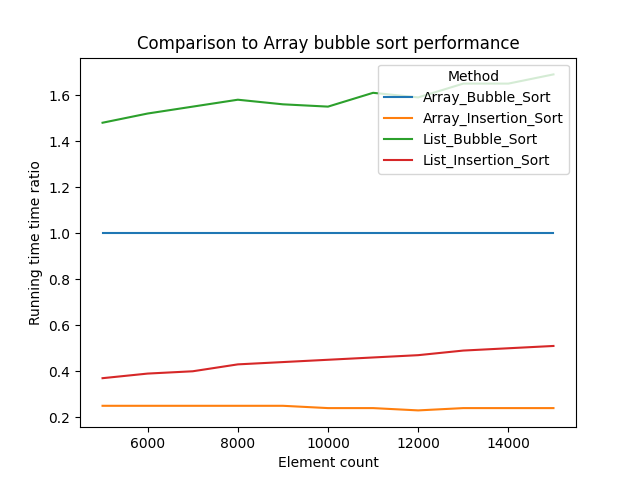
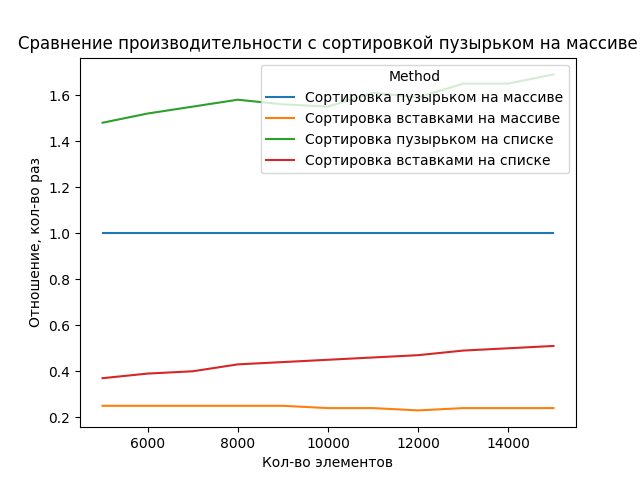
Russified graph images.

diff --git a/src/PythonPlotting/BigData.py b/src/PythonPlotting/BigData.py
@@ -7,36 +7,62 @@ df_raw = pd.read_csv(filepath, sep = ';', thousands = ',')
 
 df = df_raw[['Method', 'Element_Count', 'Mean [ms]', 'Ratio']]
 
+russify = {
+    'Array_Merge_Sort' : 'Сорторовка слиянием на массиве',
+    'Array_Quick_Sort' : 'Быстрая сортировка на массиве',
+    'Array_Bubble_Sort' : 'Сортировка пузырьком на массиве',
+    'Array_Insertion_Sort' : 'Сортировка вставками на массиве',
+    'List_Merge_Sort' : 'Сортировка слиянием на списке',
+    'List_Quick_Sort' : 'Быстрая сортировка на списке',
+    'List_Bubble_Sort' : 'Сортировка пузырьком на списке',
+    'List_Insertion_Sort' : 'Сортировка вставками на списке',
+    'Insertion Sort' : 'Сортировка вставками',
+    'Quick Sort' : 'Быстрая сортировка',
+    'Merge Sort' : 'Сортировка слиянием',
+    'Bubble Sort' : 'Сортировка пузырьком',
+    'Built-in sort' : 'Встроенная сортировка',
+    'Array Merge Sort' : 'Сорторовка слиянием на массиве',
+    'Array Quick Sort' : 'Быстрая сортировка на массиве',
+    'Array Bubble Sort' : 'Сортировка пузырьком на массиве',
+    'Array Insertion Sort' : 'Сортировка вставками на массиве',
+    'List Merge Sort' : 'Сортировка слиянием на списке',
+    'List Quick Sort' : 'Быстрая сортировка на списке',
+    'List Bubble Sort' : 'Сортировка пузырьком на списке',
+    'List Insertion Sort' : 'Сортировка вставками на списке'
+}
+
 # Running time
 pvt = df[df['Method'].str.find('sort') == -1].pivot_table(values = 'Mean [ms]', index = 'Element_Count', columns = 'Method')
+pvt.rename(columns = russify, inplace=True)
 pvt.plot()
-plt.xlabel('Element count')
-plt.ylabel('Running time, ms')
-plt.title('Array and list sorting algorithms performance')
+plt.xlabel('Кол-во элементов')
+plt.ylabel('Время работы, мс')
+plt.title('Производительность сортировок на списках и массивах')
 plt.savefig('Array and list fast sorts comparison.png')
 
-# Ratio
-pvt = df[df['Method'] != 'Array.sort'].pivot_table(values = 'Ratio', index = 'Element_Count', columns = 'Method')
-pvt.plot()
-plt.xlabel('Element count')
-plt.ylabel('Running time to Array.sort time ratio')
-plt.title('Impemented algorithms comparison to built-in array sort performance')
-plt.savefig('Implemented algorithms comparison to built-in array sort.png')
-
-# Running time
-pvt = df.pivot_table(values = 'Mean [ms]', index = 'Element_Count', columns = 'Method')
-pvt.plot()
-plt.xlabel('Element count')
-plt.ylabel('Running time, ms')
-plt.title('Built-in sorts are too fast')
-plt.savefig('Built-in sorts are too fast.png')
-
 # List to Array Ratio
+pvt = df.pivot_table(values = 'Mean [ms]', index = 'Element_Count', columns = 'Method')
 pvt['Quick Sort'] = pvt['List_Quick_Sort'].div(pvt['Array_Quick_Sort'])
 pvt['Merge Sort'] = pvt['List_Merge_Sort'].div(pvt['Array_Merge_Sort'])
 pvt['Built-in sort'] = pvt['List.sort'].div(pvt['Array.sort'])
-pvt.plot(y = ['Quick Sort', 'Merge Sort', 'Built-in sort'])
-plt.xlabel('Element count')
-plt.ylabel('List sort time / Array sort time')
-plt.title('List sort to array sort performance ratio')
+pvt.rename(columns = russify, inplace=True)
+pvt.plot(y = [russify['Quick Sort'], russify['Merge Sort'], russify['Built-in sort']])
+plt.xlabel('Кол-во элементов')
+plt.ylabel('Отношение, кол-во раз')
+plt.title('Сравнение производительности сортировок на массиве\nс сортировками на списках')
 plt.savefig('List to array fast sorts ratio.png')
+
+# Ratio
+pvt = df.pivot_table(values = 'Mean [ms]', index = 'Element_Count', columns = 'Method')
+pvt['List Merge Sort'] = pvt['List_Merge_Sort'].div(pvt['Array_Quick_Sort'])
+pvt['List Quick Sort'] = pvt['List_Quick_Sort'].div(pvt['Array_Quick_Sort'])
+pvt['Array Merge Sort'] = pvt['Array_Merge_Sort'].div(pvt['Array_Quick_Sort'])
+pvt['Array Quick Sort'] = pvt['Array_Quick_Sort'].div(pvt['Array_Quick_Sort'])
+pvt.drop(columns = ['List_Merge_Sort', 'Array_Quick_Sort', 'List_Quick_Sort', 'Array_Merge_Sort'], inplace = True)
+pvt.rename(columns = russify, inplace = True)
+pvt.plot(y = [russify['List Quick Sort'], russify['List Merge Sort'], russify['Array Quick Sort'], russify['Array Merge Sort']])
+
+plt.xlabel('Кол-во элементов')
+plt.ylabel('Отношение, кол-во раз')
+plt.title('Сравнение с быстрой сортировкой на массиве')
+plt.savefig('Array quick sort performance comparison.png')
